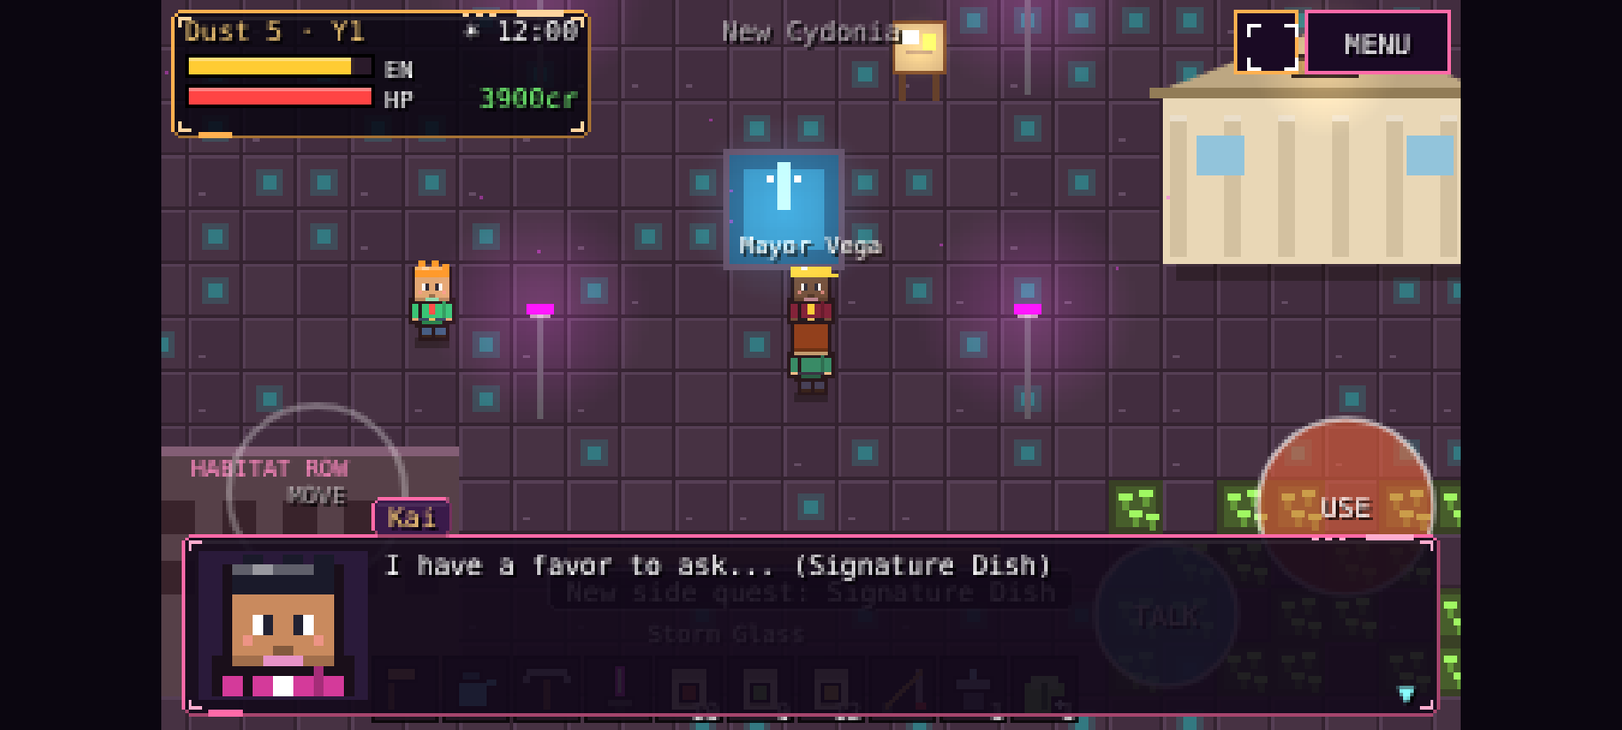
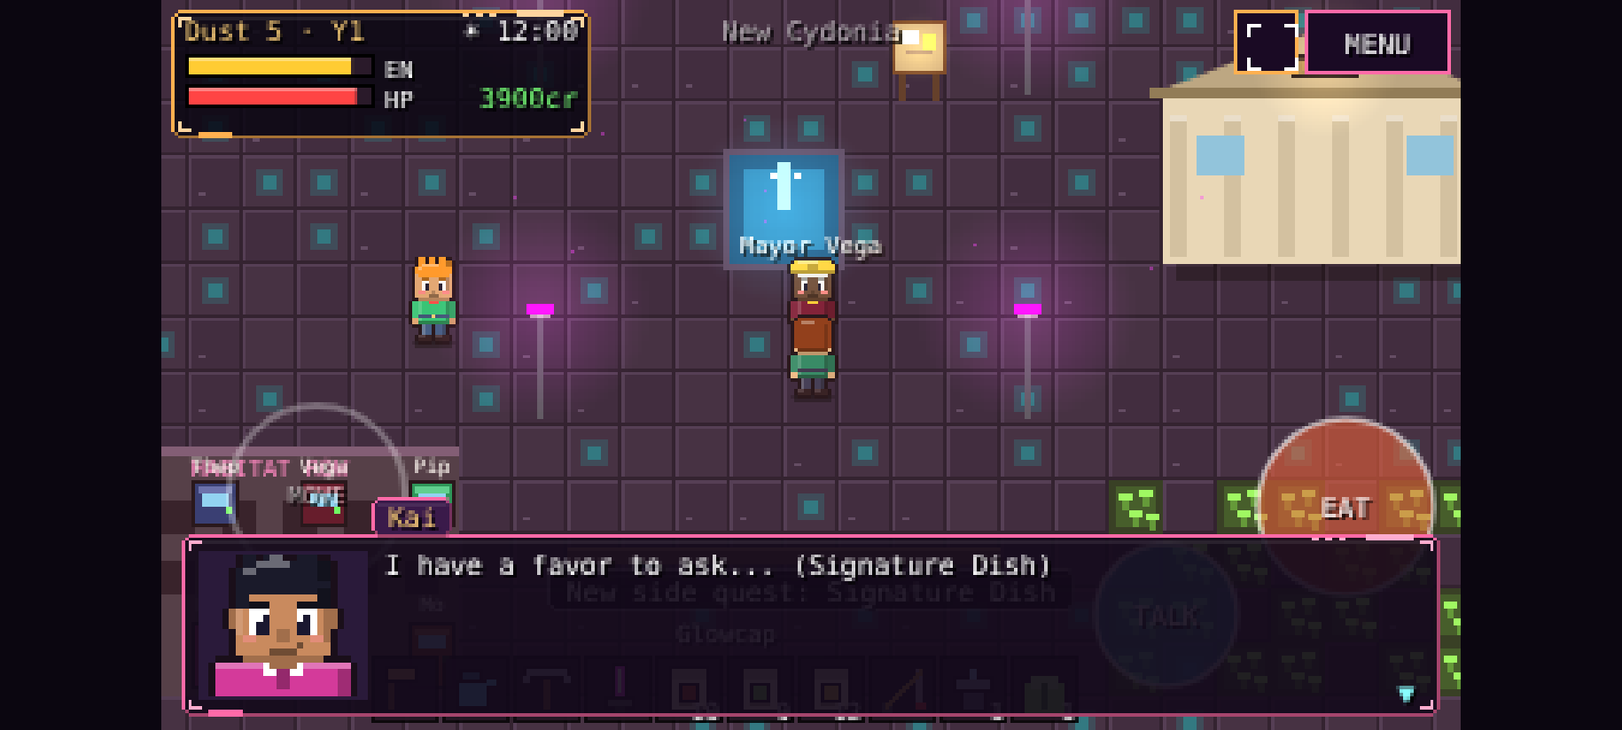
Round 14: resident homes (8 interiors, doors on Habitat Row, schedules, locks, home dialogue/heart events/readables), character + portrait visual pass, v15

diff --git a/js/v12.js b/js/v12.js
@@ -1,0 +1,184 @@
+// Farm Mars v12 (round 14): resident homes + character visual pass
+// ---------- HOMES ----------
+// door tiles on Habitat Row (A block x3-9, y16-19). bottom doors face the plaza (y20), top doors face y15.
+const HOMES={
+ ava:{door:[3,19],out:[3,20],n:"Ava's Workshop Hab",pal:['#3a4a5a','#33414f','#ffd23a','#1e2a36'],bed:[9,1,'#1fb5b5'],sit:[3,3],
+  f:[['bench',1,1,3,1,'#6a6a7a'],['toolwall',1,0,3,0],['blueprint',6,0,2,0],['crate',10,5,1,1,'#a87a3a'],['crate',10,6,1,1,'#8a6a2a'],['rug',4,3,4,3,'#2a6a7a'],['lamp',8,1,1,1,'#ffd23a'],['plant',1,6,1,1,'#3a8']],
+  read:['blueprint','A blueprint for a "Self-Sealing Dome Panel v9". The margins are full of crossed-out sums and one note: "ask the farmer for more iron?"'],
+  home:["Welcome to my workshop! Mind the solder, it's still warm.","I fix the whole colony's gear, and then I come home and fix more gear. It's relaxing, I swear.","See that blueprint? If it works, nobody will ever have to patch a dome by hand again."],
+  ev:["Ava pulls out a small box. Inside is a tiny brass farmer figurine.","AVA: \"I make one for everyone I care about. This one is you. Don't laugh!\""]},
+ kai:{door:[5,19],out:[5,20],n:"Kai's Loft",pal:['#4a2a2a','#3e2222','#ff7ad8','#26141a'],bed:[1,1,'#d43a9a'],sit:[6,3],
+  f:[['counter',7,1,4,1,'#c8c8d0'],['stove',8,1,1,1],['spices',7,0,4,0],['table',5,4,2,1,'#7a4a2a'],['neon',2,0,2,0,'#ff2ad8','EAT'],['plant',10,6,1,1,'#3a8'],['rug',4,3,4,3,'#6a2a4a']],
+  read:['spices','A rack of hand-labelled jars: "Crater Salt", "Glowcap Dust", "DO NOT TOUCH - Ghost Pepper (Mo-proof)".'],
+  home:["Hungry? There's always something on the stove here.","Home is where I test recipes that are too weird for the cafe.","Shh, don't tell anyone that my secret sauce is mostly Glowcap and nostalgia."],
+  ev:["Kai slides a bowl across the counter. It smells like the farm after rain.","KAI: \"I named this one after you. It's not on the menu. It's just for us.\""]},
+ ruiz:{door:[7,19],out:[7,20],n:"Dr. Ruiz's Quarters",pal:['#dde6ea','#c8d4da','#3a6','#4a6a7a'],bed:[10,1,'#eeeeee'],sit:[4,4],
+  f:[['books',1,1,4,1,'#5a3a2a'],['diploma',6,0,1,0],['desk',3,5,3,1,'#6a4a3a'],['plant',10,6,1,1,'#3a8'],['plant',1,6,1,1,'#5c6'],['rug',6,3,3,3,'#5a8a9a']],
+  read:['diploma','"Doctor of Medicine, Tharsis Medical Academy." A sticky note underneath says: "Remember why you came to Mars."'],
+  home:["You found my quarters. I usually spend all my time at the clinic, so this is a nice change.","I keep the plants for the oxygen. And because they never complain about their check-ups.","Sit down if you like. Doctor's orders: rest more."],
+  ev:["Ruiz shows you an old photo of a crowded Earth hospital ward.","RUIZ: \"I left all that to build something better here. You remind me that it was worth it.\""]},
+ mo:{door:[9,19],out:[9,20],n:"Old Mo's Den",pal:['#4a3a2a','#3e3022','#ffaa3a','#2a2018'],bed:[1,1,'#a65a2a'],sit:[6,4],
+  f:[['minerals',6,1,4,1,'#3a2a1a'],['pickwall',2,0,1,0],['armchair',7,4,1,1,'#7a2a2a'],['stove',10,5,1,1],['rug',5,3,4,3,'#6a3a1a'],['lamp',10,1,1,1,'#ffaa3a']],
+  read:['minerals','Old Mo\'s rock collection. Each one is labelled with a floor number and a date. The oldest label is faded and simply says "Day One".'],
+  home:["Come in, come in. Wipe the dust off your boots, or don't. Everything's dusty anyway.","Forty years in those tunnels. Every rock on that shelf has a story.","Sit by the heater. These old bones like the warmth."],
+  ev:["Mo lifts a battered pickaxe off the wall and hands it to you to hold.","MO: \"My first pick. When I'm gone, I want you to have it. Now don't get all misty on me.\""]},
+ zara:{door:[3,16],out:[3,15],n:"Zara's Neon Studio",pal:['#2a1a3a','#241632','#3af0ff','#140a20'],bed:[9,1,'#ff7a1a'],sit:[4,4],
+  f:[['synth',1,1,3,1,'#222'],['neon',5,0,3,0,'#3af0ff','ZARA'],['mirror',9,0,1,0],['speaker',1,5,1,2],['speaker',10,5,1,2],['rug',4,3,4,3,'#6a1a7a']],
+  read:['synth','A synth covered in stickers. Track list on the screen: "Dust Storm Disco", "Phobos at 2am", "Farm Song (for you?)".'],
+  home:["Welcome to the studio! Don't touch the faders. Okay, touch one.","This is where I make the playlists for the Airlock.","The neon's not too much, right? ...Okay, it's a little too much. I love it."],
+  ev:["Zara hits play. A soft synth melody fills the room, and it sounds a lot like the crickets on your farm.","ZARA: \"I wrote it after visiting your farm. It's called 'Home'.\""]},
+ theo:{door:[5,16],out:[5,15],n:"Theo's Observatory Flat",pal:['#22284a','#1c2240','#bff','#10142a'],bed:[1,1,'#3a4aa0'],sit:[6,4],
+  f:[['telescope',9,1,1,1],['starmap',4,0,3,0],['books',1,5,3,1,'#3a2a4a'],['desk',6,1,2,1,'#5a4a6a'],['rug',4,3,4,3,'#2a3a7a'],['fossil',10,5,1,1]],
+  read:['starmap','A star chart with Earth circled in red. Next to it someone has written "too far" and then, later, "but look how bright it is".'],
+  home:["Oh! Visitors are rare. Sorry about all the notes everywhere.","The telescope's pointed at Earth. Some nights I just look.","Did you know Phobos is getting closer to Mars every year? About two metres every century."],
+  ev:["Theo lets you look through the telescope. A tiny blue dot shimmers in the eyepiece.","THEO: \"Everyone I ever knew is on that dot. And yet, I think I'd rather be here.\""]},
+ vega:{door:[7,16],out:[7,15],n:"Mayor Vega's Residence",pal:['#3a1a2a','#321624','#ffd23a','#200c18'],bed:[10,1,'#7a1a3a'],sit:[4,4],
+  f:[['desk',3,1,3,1,'#5a2a1a'],['flag',1,0,1,0],['globe',8,5,1,1],['portrait',6,0,2,0],['plant',1,6,1,1,'#3a8'],['rug',3,3,5,3,'#7a1a3a'],['books',8,1,2,1,'#4a2a1a']],
+  read:['portrait','A portrait of the first 40 colonists. A much younger Vega stands at the front, already wearing that cap.'],
+  home:["Ah, welcome. Even a mayor needs a place to put her feet up.","Paperwork follows me home. Every single night.","That portrait is the first landing crew. Half of them still live in New Cydonia."],
+  ev:["Vega takes a pin from her desk: the colony seal, in gold.","VEGA: \"Honorary Founder. It's not official. Yet. But you've earned it.\""]},
+ pip:{door:[9,16],out:[9,15],n:"Pip's Family Hab",pal:['#3a5a3a','#335233','#ff4a4a','#1e321e'],bed:[1,1,'#2ac87a'],sit:[6,4],
+  f:[['toys',9,5,2,1],['drawings',4,0,3,0],['table',6,1,2,1,'#c87a3a'],['rover',3,5,1,1],['rug',4,3,4,3,'#2a7aaa'],['plant',10,1,1,1,'#3a8']],
+  read:['drawings','Crayon drawings stuck to the wall: a robot, a cow with antennae, and a stick figure in a big hat labelled "THE FARMER (my friend)".'],
+  home:["This is my room! Don't step on my rover.","Mom says I have to tidy up before bedtime. Mom says that a lot.","Want to see my drawings? That one's you!"],
+  ev:["Pip hands you a crayon drawing of the two of you on the farm, under a giant smiling Phobos.","PIP: \"You can keep it! I'll draw another one. I'll draw a hundred!\""]},
+};
+window.HOMEN={};
+const HOMEZ=id=>'h_'+id,homeOf=z=>z&&z.startsWith('h_')?z.slice(2):null;
+for(const id in HOMES){const h=HOMES[id],z=HOMEZ(id),rows=[];for(let y=0;y<8;y++){let r='';for(let x=0;x<12;x++)r+=(y==0||x==0||x==11)?'w':(y==7?(x==5?'D':'w'):'o');rows.push(r)}
+ const m=fromStr(rows);m[7]=m[7].map((c,x)=>x==5?'D':'w');
+ const solid=(x,y,w,hh)=>{for(let j=0;j<hh;j++)for(let i=0;i<w;i++)if(m[y+j]&&m[y+j][x+i]=='o')m[y+j][x+i]='x'};
+ solid(h.bed[0],h.bed[1],2,2);for(const f of h.f)if(f[0]!='rug'&&f[4]>0)solid(f[1],f[2],f[3],f[4]);
+ MAPS[z]=m;DZ[z]=h.pal;window.HOMEN[z]=h.n;
+ MAPS.city[h.door[1]][h.door[0]]='D';DOORS['city:'+h.door[0]+','+h.door[1]]=[z,5,6];EXITS[z]=['city',h.out[0],h.out[1]]}
+// residents sleep/relax at home instead of vanishing
+for(const n of NPCS){const h=HOMES[n.id];if(!h)continue;n.sched=n.sched.map(s=>s[1]=='home'?[s[0],HOMEZ(n.id),h.sit[0],h.sit[1]]:s)}
+const homeOpen=()=>G.time>=420&&G.time<1320;// 7:00-22:00
+function homeLocked(id){if(G.spouse==id)return false;return !homeOpen()&&(G.hearts[id]||0)<6}
+{const _tr=triggers;triggers=function(){if(G&&G.zone=='city'){const tx=Math.floor(G.px/T),ty=Math.floor((G.py-2)/T);for(const id in HOMES){const h=HOMES[id];if(h.door[0]==tx&&h.door[1]==ty&&homeLocked(id)){
+   const n=NPCS.find(q=>q.id==id);G.px=h.out[0]*T+8;G.py=h.out[1]*T+8;if(!(TOASTLOCK>tick)){toast("Locked. "+n.n+" is asleep. (Open 7:00-22:00, or at 6+ hearts)");sfx('bad');TOASTLOCK=tick+90}return}}}
+ return _tr.apply(this,arguments)}}
+let TOASTLOCK=0;
+// home dialogue, home heart events
+{const _t=talk;talk=function(n){_t(n);const id=homeOf(G.zone);if(id!=n.id||!modal||!HOMES[id]||(modal.name||'').includes('Event'))return;const h=HOMES[id];G.events=G.events||{};
+ if((G.hearts[id]||0)>=5&&!G.events['homeEv_'+id]&&G.spouse!=id){G.events['homeEv_'+id]=G.day;addHearts(n,1);modal={name:n.n+' - Heart Event',pages:h.ev.slice(),pi:0,ch:0,opts:null,sel:0,look:n.look,mood:'love'};sfx('heart');return}
+ const k='homeL_'+id;if(G.events[k]!=G.day){G.events[k]=G.day;modal.pages.unshift(h.home[G.day%h.home.length])}}}
+function homeRead(){const id=homeOf(G.zone);if(!id)return false;const h=HOMES[id],[fx,fy]=facingTile();
+ const hit=(f)=>fx>=f[1]&&fx<f[1]+f[3]&&fy>=f[2]&&fy<=f[2]+Math.max(0,f[4]-1);const f=h.f.find(f=>f[0]==h.read[0]&&(hit(f)||f[4]==0&&fx>=f[1]&&fx<f[1]+f[3]&&fy<=1));
+ if(f){say(h.n,h.read[1]);sfx('menu');G.events=G.events||{};G.events['read_'+id]=1;return true}
+ if(fx>=h.bed[0]&&fx<h.bed[0]+2&&fy>=h.bed[1]&&fy<h.bed[1]+2){say(h.n,"It's a neatly made bed. Better not.");return true}return false}
+{const _i=interact;interact=function(){if(G&&!modal&&!nearNPC()&&homeRead())return;return _i()}}
+{const _a=act;act=function(){if(G&&!modal&&!FISHING&&!nearNPC()&&homeOf(G.zone)&&homeRead())return;return _a()}}
+// ---------- furniture art ----------
+function furn(f,X,Y){const[k,,,w,h,c,lab]=f,W2=w*T,H2=Math.max(1,h)*T;
+ switch(k){
+ case'rug':R(X,Y,W2,H2,c);R(X+2,Y+2,W2-4,H2-4,shade(c,.15));R(X+4,Y+4,W2-8,H2-8,c);for(let i=6;i<W2-6;i+=6)R(X+i,Y+H2/2,2,2,shade(c,.4));break;
+ case'bench':case'desk':case'table':case'counter':R(X,Y+2,W2,H2-6,'#1a0f1a');R(X+1,Y+3,W2-2,4,shade(c,.25));R(X+1,Y+7,W2-2,H2-12,c);R(X+2,Y+H2-5,2,4,shade(c,-.4));R(X+W2-4,Y+H2-5,2,4,shade(c,-.4));
+  if(k=='bench'){R(X+6,Y-1,6,4,'#9aa');R(X+18,Y,4,3,'#f80');R(X+30,Y-2,8,5,'#3a3')}if(k=='desk'){R(X+W2/2-6,Y-6,12,9,'#1a1a24');R(X+W2/2-5,Y-5,10,6,tick%90<45?'#6cf':'#5be');R(X+4,Y,6,2,'#fff')}
+  if(k=='counter'){R(X+4,Y,6,3,'#ddd');R(X+W2-12,Y-2,4,5,'#a33')}if(k=='table'){R(X+6,Y+1,6,2,'#fff');R(X+W2-12,Y,4,3,'#ffd27a')}break;
+ case'stove':R(X,Y+1,T,T-1,'#1a0f1a');R(X+1,Y+2,14,13,'#556');R(X+2,Y+3,12,3,'#889');R(X+3,Y+8,10,5,'#222');R(X+4,Y+9,8,3,tick%20<10?'#f62':'#fa3');light(X+8,Y+10,18,'#f84');break;
+ case'crate':R(X+1,Y+1,14,14,'#1a0f1a');R(X+2,Y+2,12,12,c);R(X+2,Y+2,12,1,shade(c,.3));R(X+2,Y+7,12,1,shade(c,-.3));R(X+7,Y+2,1,12,shade(c,-.3));break;
+ case'lamp':R(X+7,Y+4,2,11,'#333');R(X+4,Y+14,8,2,'#222');R(X+3,Y,10,5,c);R(X+4,Y+1,8,1,'#fff8');light(X+8,Y+3,34,c);break;
+ case'plant':R(X+4,Y+10,8,6,'#8a4a2a');R(X+4,Y+10,8,1,'#b86a3a');R(X+3,Y+2,4,8,c);R(X+8,Y,5,10,shade(c,.2));R(X+6,Y+4,4,6,shade(c,-.2));R(X+9,Y+1,2,2,'#cfc');break;
+ case'books':case'minerals':R(X,Y-6,W2,H2+6,'#1a0f1a');R(X+1,Y-5,W2-2,H2+4,c);for(let r=0;r<3;r++){R(X+1,Y-5+r*7+6,W2-2,1,shade(c,-.4));for(let i=2;i<W2-3;i+=3){const col=k=='books'?['#c33','#36c','#3a6','#db3','#a5c'][(i+r)%5]:['#e0603a','#6cf','#c8f','#ffd27a','#9f6','#ccc'][(i+r*2)%6];R(X+i,Y-5+r*7+(k=='books'?1:3),2,k=='books'?5:3,col)}}break;
+ case'armchair':R(X,Y+2,T,14,'#1a0f1a');R(X+1,Y+3,14,12,c);R(X+3,Y+7,10,5,shade(c,.2));R(X+1,Y+3,14,2,shade(c,.3));break;
+ case'telescope':R(X+6,Y+8,1,8,'#888');R(X+10,Y+8,1,8,'#888');R(X+8,Y+6,1,10,'#aaa');R(X+2,Y,12,5,'#1a0f1a');R(X+3,Y+1,10,3,'#c8c0a0');R(X+3,Y+1,10,1,'#fff');R(X+12,Y,3,5,'#556');break;
+ case'globe':R(X+7,Y+11,2,4,'#a87');R(X+4,Y+14,8,2,'#5a3a2a');R(X+3,Y+1,10,10,'#1a0f1a');R(X+4,Y+2,8,8,'#c8502a');R(X+5,Y+3,3,2,'#e88a5a');R(X+8,Y+6,3,2,'#8a2a1a');break;
+ case'synth':R(X,Y+3,W2,10,'#1a0f1a');R(X+1,Y+4,W2-2,8,'#333');for(let i=3;i<W2-3;i+=3)R(X+i,Y+8,2,4,i%9?'#fff':'#111');R(X+3,Y+5,10,2,tick%30<15?'#3af0ff':'#ff2ad8');light(X+W2/2,Y+6,26,'#3af0ff');break;
+ case'speaker':R(X+1,Y,14,H2,'#1a0f1a');R(X+2,Y+1,12,H2-2,'#2a2a34');const p=tick%16<8?1:0;R(X+4,Y+4,8,8,'#111');R(X+5+p,Y+5+p,6-2*p,6-2*p,'#556');R(X+5,Y+18,6,6,'#111');R(X+6,Y+19,4,4,'#445');break;
+ case'toys':R(X+2,Y+4,W2-4,12,'#1a0f1a');R(X+3,Y+5,W2-6,10,'#e84');R(X+3,Y+5,W2-6,2,'#fa6');R(X+6,Y,5,5,'#3cf');R(X+14,Y+1,6,4,'#fd3');R(X+22,Y,3,6,'#c3c');break;
+ case'rover':R(X+2,Y+6,12,6,'#1a0f1a');R(X+3,Y+7,10,4,'#ccc');R(X+5,Y+4,4,3,'#6cf');R(X+3,Y+11,3,3,'#333');R(X+10,Y+11,3,3,'#333');break;
+ case'fossil':R(X+2,Y+4,12,10,'#1a0f1a');R(X+3,Y+5,10,8,'#a89070');R(X+5,Y+7,6,1,'#e8dcc0');R(X+5,Y+9,6,1,'#e8dcc0');R(X+7,Y+6,1,5,'#e8dcc0');break;
+ // wall-mounted (h==0): drawn on the wall row
+ case'toolwall':R(X+2,Y+3,W2-4,10,'#5a4a3a');R(X+6,Y+4,2,8,'#ccc');R(X+14,Y+4,6,3,'#f80');R(X+16,Y+7,2,5,'#aaa');R(X+28,Y+5,8,2,'#ccc');R(X+31,Y+5,2,7,'#a87');break;
+ case'blueprint':case'starmap':case'drawings':case'portrait':R(X+2,Y+2,W2-4,12,'#1a0f1a');R(X+3,Y+3,W2-6,10,k=='blueprint'?'#2a5ab0':k=='starmap'?'#0a1030':k=='portrait'?'#6a4a2a':'#f4ead8');
+  if(k=='blueprint'){for(let i=5;i<W2-5;i+=5)R(X+i,Y+5,1,6,'#9cf');R(X+5,Y+8,W2-10,1,'#9cf')}if(k=='starmap'){for(let i=0;i<9;i++)R(X+4+(i*7)%(W2-8),Y+4+(i*5)%8,1,1,'#fff');R(X+W2-12,Y+7,2,2,'#f44')}
+  if(k=='drawings'){R(X+5,Y+5,6,6,'#f66');R(X+16,Y+4,8,7,'#6cf');R(X+30,Y+5,6,6,'#fd3');R(X+32,Y+3,2,2,'#333')}if(k=='portrait'){R(X+4,Y+4,W2-8,8,'#c8b090');for(let i=6;i<W2-6;i+=4)R(X+i,Y+6,2,5,'#3a2a2a')}break;
+ case'diploma':R(X+2,Y+3,12,10,'#a87a3a');R(X+3,Y+4,10,8,'#f4ead8');R(X+5,Y+6,6,1,'#555');R(X+5,Y+8,6,1,'#555');R(X+9,Y+10,3,2,'#c33');break;
+ case'pickwall':R(X+3,Y+4,10,3,'#999');R(X+2,Y+5,2,3,'#888');R(X+12,Y+5,2,3,'#888');R(X+7,Y+6,2,9,'#7a4a2a');break;
+ case'mirror':R(X+3,Y+1,10,14,'#ffd27a');R(X+4,Y+2,8,12,'#9cd8f0');R(X+5,Y+3,2,6,'#fff8');break;
+ case'flag':R(X+3,Y+1,1,14,'#ccc');R(X+4,Y+2,10,7,'#c8302a');R(X+7,Y+4,4,3,'#ffd23a');break;
+ case'spices':R(X+2,Y+8,W2-4,2,'#7a4a2a');for(let i=4;i<W2-4;i+=5)R(X+i,Y+3,4,5,['#c33','#db3','#3a6','#a5c','#e84'][i%5]);break;
+ case'neon':{const on=tick%120<110;R(X+2,Y+3,W2-4,10,'#0a0610');txt(lab,X+W2/2,Y+11,on?c:shade(c,-.6),7,'center',0);if(on)light(X+W2/2,Y+8,40,c);break}
+ }}
+function drawBed(X,Y,c){R(X,Y,32,30,'#1a0f1a');R(X+1,Y+1,30,6,'#7a5a3a');R(X+1,Y+7,30,22,'#e8e8f8');R(X+3,Y+8,11,7,'#fff');R(X+1,Y+15,30,14,c);R(X+1,Y+15,30,2,shade(c,.3));R(X+1,Y+27,30,2,shade(c,-.3))}
+{const _de=typeof drawExtra=='function'?drawExtra:null;drawExtra=function(D,ox,oy,z){if(_de)_de(D,ox,oy,z);
+ if(z=='city'){for(const id in HOMES){const h=HOMES[id],X=h.door[0]*T-ox,Y=h.door[1]*T-oy;if(X<-20||X>W+20||Y<-30||Y>H+30)continue;const top=h.door[1]==16,lk=homeLocked(id),n=NPCS.find(q=>q.id==id);
+   D.push([(top?16:20)*T-oy+(top?-T*4:1),()=>{R(X+1,Y-(top?0:6),14,top?14:20,'#1a0f1a');R(X+2,Y-(top?-1:5),12,top?12:18,shade(n.look.top,-.25));R(X+3,Y-(top?-2:4),10,2,shade(n.look.top,.2));R(X+11,Y+(top?8:4),2,2,lk?'#f44':'#6f6');
+    R(X+4,Y-(top?-4:2),8,4,G.time>=1080||G.time<420?'#ffd890':'#8ad8ff');txt(n.n.split(' ').pop(),X+8,Y+(top?-2:-9),'#fff',6,'center',0)}])}}
+ const id=homeOf(z);if(!id)return;const h=HOMES[id];
+ for(const f of h.f){const X=f[1]*T-ox,Y=f[2]*T-oy;if(f[0]=='rug')D.push([-9999,()=>furn(f,X,Y)]);else if(f[4]==0)D.push([-999,()=>furn(f,X,Y)]);else D.push([(f[2]+f[4])*T-oy,()=>furn(f,X,Y)])}
+ const bx=h.bed[0]*T-ox,by=h.bed[1]*T-oy;D.push([by+2*T-6,()=>drawBed(bx,by,h.bed[2])])}}
+// ---------- CHARACTER VISUAL PASS ----------
+const drawCharV1=drawChar,drawPortraitV1=drawPortrait;
+const CC=new Map();const OL='#1a0f1a';
+function outline(c){const g=c.getContext('2d'),w=c.width,h=c.height,d=g.getImageData(0,0,w,h),a=d.data,o=new Uint8ClampedArray(a);
+ for(let y=0;y<h;y++)for(let x=0;x<w;x++){const i=(y*w+x)*4;if(a[i+3])continue;if((x>0&&a[i-1])||(x<w-1&&a[i+7])||(y>0&&a[i-w*4+3])||(y<h-1&&a[i+w*4+3])){o[i]=26;o[i+1]=15;o[i+2]=26;o[i+3]=255}}
+ d.data.set(o);g.putImageData(d,0,0)}
+function rr(g,x,y,w,h,c){px(g,x+1,y,w-2,h,c);px(g,x,y+1,w,h-2,c)}// rounded rect
+function charSprite(look,dir,frame,suit,swing){const key=look.skin+look.hair+look.style+look.top+look.pants+look.acc+dir+frame+(suit?1:0)+(swing?1:0)+(look.small?'s':'');let c=CC.get(key);if(c)return c;
+ c=document.createElement('canvas');c.width=18;c.height=27;const g=c.getContext('2d'),O=1,sk=look.skin,hr=look.hair,tp=look.top,pn=look.pants,ac=look.acc||shade(tp,.4);
+ const ph=[0,1,0,-1][frame&3],bob=(frame&1)?1:0,side=dir==1||dir==3,fl=dir==3;const X=O,Y=O+1;
+ const P=(x,y,w,h,col)=>px(g,fl?X+16-x-w:X+x,Y+y,w,h,col);
+ // legs (4-frame stride, knee lift on passing frames)
+ const sh='#2a1a24',sh2='#4a3a44';
+ if(side){const a=ph*2;P(6+a,17,3,5-(ph<0?1:0),pn);P(7-a,17,3,5-(ph>0?1:0),shade(pn,-.25));P(6+a,21-(ph<0?1:0),4,2,sh);P(7-a,21-(ph>0?1:0),4,2,shade(sh,-.2));P(6+a,21-(ph<0?1:0),1,1,sh2)}
+ else{const l=ph>0?1:0,r=ph<0?1:0;P(5,17,3,5-l,pn);P(9,17,3,5-r,pn);P(5,17,1,4,shade(pn,.2));P(11,17,1,4,shade(pn,-.25));P(4,21-l,4,2,sh);P(9,21-r,4,2,sh);P(4,21-l,2,1,sh2);P(9,21-r,2,1,sh2)}
+ // torso
+ const by=10+bob;rr(g,fl?X+16-4-9:X+4,Y+by,9,8,tp);P(4,by,9,1,shade(tp,.3));P(4,by+1,1,6,shade(tp,.18));P(12,by+1,1,6,shade(tp,-.28));P(4,by+7,9,1,shade(tp,-.35));
+ P(4,by+5,9,1,shade(pn,-.1));if(dir==2){P(7,by,3,2,ac);P(8,by+5,1,1,'#ffd27a')}else if(side)P(9,by+1,2,3,shade(tp,.15));
+ if(suit){P(4,by+3,9,1,'#fa2');if(dir==0)P(5,by+1,7,5,'#778'),P(6,by+2,5,1,'#99a');else if(side)P(3,by+1,2,6,'#778')}
+ // arms with hands, swing opposite legs
+ const sw=swing?0:ph;if(side){P(7-sw,by+1,3,6,shade(tp,-.1));P(7-sw,by+6,3,2,sk);P(7-sw,by+1,1,5,shade(tp,.2))}
+ else{P(2,by+1-sw,2,6,shade(tp,.05));P(13,by+1+sw,2,6,shade(tp,-.2));P(2,by+6-sw,2,2,sk);P(13,by+6+sw,2,2,shade(sk,-.1))}
+ // head: rounded, shaded
+ const hy=1+bob,skd=shade(sk,-.22),skl=shade(sk,.15);rr(g,fl?X+16-3-11:X+3,Y+hy,11,10,sk);P(4,hy,8,1,skl);P(12,hy+2,1,6,skd);P(4,hy+9,9,1,skd);
+ if(dir==0){rr(g,fl?X+16-3-11:X+3,Y+hy-1,11,10,hr);P(5,hy,4,1,shade(hr,.35));P(4,hy+8,9,1,shade(hr,-.3));P(12,hy+1,1,7,shade(hr,-.2))}
+ else{const eb=shade(hr,-.35);
+  if(dir==2){P(5,hy+4,2,3,'#fff');P(10,hy+4,2,3,'#fff');P(6,hy+5,1,2,'#1a1830');P(10,hy+5,1,2,'#1a1830');P(5,hy+4,1,1,'#fff');P(5,hy+3,2,1,eb);P(10,hy+3,2,1,eb);
+   P(4,hy+7,2,1,'#f88a8a');P(11,hy+7,2,1,'#f88a8a');P(7,hy+8,3,1,shade(sk,-.4));P(8,hy+7,1,1,skd)}
+  else{P(10,hy+4,2,3,'#fff');P(11,hy+5,1,2,'#1a1830');P(10,hy+3,2,1,eb);P(13,hy+5,1,2,skd);P(11,hy+8,2,1,shade(sk,-.4));P(9,hy+7,2,1,'#f88a8a');P(5,hy+4,2,3,skd)}
+  const st=look.style,hl=shade(hr,.35),hd=shade(hr,-.3);
+  if(st!='bald'){rr(g,fl?X+16-3-11:X+3,Y+hy-1,11,4,hr);P(5,hy-1,5,1,hl);P(4,hy,1,1,hl);
+   if(side){P(3,hy,4,6,hr);P(3,hy+5,3,1,hd);P(4,hy+1,1,3,hl)}
+   if(st=='bob'){P(2,hy+1,2,8,hr);P(13,hy+1,2,8,hd);P(2,hy+8,2,1,hd);if(dir==2)P(4,hy+2,4,1,hr)}
+   else if(st=='spiky'){P(4,hy-3,2,2,hr);P(7,hy-4,2,3,hr);P(10,hy-3,2,2,hr);P(12,hy-2,2,2,hd);P(7,hy-4,1,1,hl);if(dir==2)P(4,hy+2,2,1,hr),P(10,hy+2,2,1,hr)}
+   else if(st=='long'){P(2,hy+1,2,12,hr);P(13,hy+1,2,12,hd);P(2,hy+12,2,1,hd);P(2,hy+3,1,5,hl)}
+   else if(st=='cap'){rr(g,fl?X+16-2-13:X+2,Y+hy-2,13,4,ac);P(4,hy-2,6,1,shade(ac,.35));P(2,hy+1,13,1,shade(ac,-.3));if(dir==2)P(7,hy-1,3,2,shade(ac,-.25));else if(side)P(12,hy+1,4,2,ac)}
+   else if(st=='beard'){P(3,hy-1,11,2,hr)}}else{P(4,hy,8,1,shade(sk,.35));P(6,hy+1,3,1,shade(sk,.25))}
+  if(st=='beard'){if(dir==2){P(4,hy+6,9,4,hr);P(6,hy+10,5,1,hr);P(7,hy+7,3,1,shade(sk,-.4));P(4,hy+6,1,3,hl)}else P(8,hy+6,6,4,hr)}
+  if(st=='bald'&&dir!=0){P(3,hy+2,1,3,'#9a9a9a');P(13,hy+2,1,3,'#9a9a9a')}}
+ outline(c);
+ if(suit){g.fillStyle='#bff9';const cxp=X+8.5,cyp=Y+hy+4.5;for(let a=0;a<64;a++){const t=a/64*6.283,xx=Math.round(cxp+Math.cos(t)*7.5),yy=Math.round(cyp+Math.sin(t)*7.2);g.fillRect(xx,yy,1,1)}g.fillStyle='#fffc';g.fillRect(X+5,Y+hy-2,3,1)}
+ if(CC.size>600)CC.clear();CC.set(key,c);return c}
+drawChar=function(g,X,Y,look,dir,frame,o={}){if(!look||!look.skin)return drawCharV1(g,X,Y,look,dir,frame,o);const f=frame&3;
+ px(g,X+3,Y+22,11,3,'#0005');px(g,X+2,Y+23,13,1,'#0003');g.drawImage(charSprite(look,dir,f,o.suit,o.swing),Math.round(X)-1,Math.round(Y)-2);
+ if(o.carry){const c=o.carry,b=(f&1)?1:0;ob(g,X+5,Y-6+b,6,6,c);px(g,X+6,Y-5+b,2,2,'#fff8')}};
+// ---------- portraits: dedicated 24x21 bust, drawn at 2x for dialogue ----------
+const PC2={};
+function bust(look,mood,blink){const key=JSON.stringify(look)+mood+blink;if(PC2[key])return PC2[key];const c=document.createElement('canvas');c.width=24;c.height=21;const g=c.getContext('2d'),P=(x,y,w,h,col)=>px(g,x,y,w,h,col);
+ const sk=look.skin,hr=look.hair,tp=look.top,ac=look.acc||shade(tp,.4),skd=shade(sk,-.2),skl=shade(sk,.14),hl=shade(hr,.35),hd=shade(hr,-.3),st=look.style;
+ // shoulders
+ rr(g,2,16,20,6,tp);P(2,16,20,1,shade(tp,.3));P(9,16,6,2,ac);P(11,17,2,3,shade(tp,-.3));P(20,17,2,4,shade(tp,-.25));
+ P(10,14,4,3,skd);// neck
+ if(st=='long'){P(4,5,3,13,hr);P(17,5,3,13,hd)}
+ // head
+ rr(g,5,3,14,13,sk);P(6,3,10,1,skl);P(18,5,1,8,skd);P(6,15,12,1,skd);P(5,6,1,6,skl);P(4,8,1,3,skd);P(19,8,1,3,skd);
+ // eyes
+ const ey=9;if(blink){P(7,ey+1,3,1,'#1a1830');P(14,ey+1,3,1,'#1a1830')}else if(mood=='love'){P(7,ey,1,1,'#1a1830');P(8,ey-1,1,1,'#1a1830');P(9,ey,1,1,'#1a1830');P(14,ey,1,1,'#1a1830');P(15,ey-1,1,1,'#1a1830');P(16,ey,1,1,'#1a1830')}
+ else{P(7,ey-1,3,4,'#fff');P(14,ey-1,3,4,'#fff');P(8,ey,2,3,'#1a1830');P(14,ey,2,3,'#1a1830');P(8,ey,1,1,'#fff');P(14,ey,1,1,'#fff');if(mood=='sad')P(17,ey+3,1,2,'#8cf')}
+ const bw=shade(hr=='#dddddd'||st=='bald'?'#888888':hr,-.35);if(mood=='angry'){P(7,ey-3,3,1,bw);P(9,ey-2,1,1,bw);P(14,ey-3,3,1,bw);P(14,ey-2,1,1,bw)}else{P(7,ey-2,3,1,bw);P(14,ey-2,3,1,bw)}
+ P(11,ey+2,2,2,skd);P(6,ey+3,2,1,'#f8909088');P(16,ey+3,2,1,'#f8909088');
+ const mk=shade(sk,-.45);if(mood=='happy'||mood=='love'){P(9,ey+5,6,1,mk);P(10,ey+6,4,1,'#c04050');P(9,ey+4,1,1,mk);P(14,ey+4,1,1,mk)}else if(mood=='sad'||mood=='angry'){P(10,ey+5,4,1,mk);P(9,ey+6,1,1,mk);P(14,ey+6,1,1,mk)}else{P(10,ey+5,4,1,mk);P(14,ey+4,1,1,mk)}
+ // hair
+ if(st!='bald'){rr(g,5,1,14,5,hr);P(7,1,6,1,hl);P(6,2,2,1,hl);P(5,5,2,3,hr);P(17,5,2,3,hd);
+  if(st=='bob'){P(3,4,3,11,hr);P(18,4,3,11,hd);P(3,14,3,1,hd);P(7,5,5,2,hr);P(3,6,1,4,hl)}
+  else if(st=='spiky'){P(6,-0,2,2,hr);P(9,0,3,1,hr);P(10,-0,2,1,hl);P(14,0,3,2,hr);P(17,1,2,3,hd);P(7,5,3,1,hr);P(13,5,3,1,hr)}
+  else if(st=='long'){P(4,3,2,4,hr);P(18,3,2,4,hd);P(6,5,4,1,hr)}
+  else if(st=='cap'){rr(g,4,0,16,5,ac);P(6,0,8,1,shade(ac,.35));P(3,4,18,2,shade(ac,-.25));P(10,1,4,3,shade(ac,-.15));P(5,6,2,2,hr);P(17,6,2,2,hr)}
+  else if(st=='beard'){P(5,11,14,4,hr);P(7,15,10,2,hr);P(9,17,6,1,hd);P(10,13,4,1,mk);P(6,11,1,3,hl)}}
+ else{P(7,3,8,1,shade(sk,.3));P(4,7,1,4,'#9a9a9a');P(19,7,1,4,'#9a9a9a');if(look.acc){P(6,8,5,1,'#333');P(13,8,5,1,'#333');P(11,8,2,1,'#333')}}
+ outline(c);return PC2[key]=c}
+drawPortrait=function(g,X,Y,look,s=3,mood='',blink=false){if(!look||!look.skin)return drawPortraitV1(g,X,Y,look,s,mood,blink);const k=s>=3?2:1,c=bust(look,mood,blink);g.imageSmoothingEnabled=false;
+ const w=24*k,h=21*k,bw=16*s,bh=14*s;g.drawImage(c,0,0,24,21,Math.round(X+(bw-w)/2),Math.round(Y+(bh-h)),w,h)};
+window.FM12={HOMES,HOMEZ,homeOf,homeLocked,homeOpen,charSprite,bust,drawCharV1,drawPortraitV1,homeRead,CC};

diff --git a/tests/features.js b/tests/features.js
@@ -24,6 +24,27 @@ module.exports=async({t,ev,page,path,SHOTS})=>{
   add('iron',5);talk(n);modal=null;if(G.sq[q.id]!==1)throw new Error('step1');add('crys',2);const m=G.money;talk(n);modal=null;if(G.sq[q.id]!='done')throw new Error('not done');if(G.money!=m+q.r[0])throw new Error('reward');
   FM11.questLog();if(!modal||!modal.pages[0].includes('Done'))throw new Error('log');modal=null;for(const x of FM11.SQ)for(const[s]of x.steps)if(!ITEMS[s])throw new Error('bad item '+s);boardMenu();if(!modal.opts.some(o=>o.t=='Side Quests'))throw new Error('board link');modal=null;
   const q2=FM11.SQ[1];G.hearts[q2.npc]=5;talk(NPCS.find(x=>x.id==q2.npc));modal=null;if(FM11.sqActive()!=q2)throw new Error('tracker');draw();const[rx,ry,rw,rh]=FM11.sqTrackRect();onTap(rx+10,ry+10);if(!modal||!modal.pages[0].includes(q2.t))throw new Error('tracker tap');modal=null;return 'ok'}));
+ await t('homes: 8 doors open, spawns walkable, exits back, reachable sit spots',async()=>ev(()=>{const H=FM12.HOMES,out=[];if(Object.keys(H).length<8)throw new Error('homes '+Object.keys(H).length);
+  for(const id in H){const h=H[id],z=FM12.HOMEZ(id);if(!NPCS.find(n=>n.id==id))throw new Error('no npc '+id);G.time=600;G.hearts[id]=0;
+   if(MAPS.city[h.door[1]][h.door[0]]!='D')throw new Error('door tile '+id);if(isSolid('city',MAPS.city[h.out[1]][h.out[0]]))throw new Error('out solid '+id);
+   enter('city',h.out[0],h.out[1],0);G.px=h.door[0]*T+8;G.py=h.door[1]*T+10;triggers();if(G.zone!=z)throw new Error('enter '+id+' -> '+G.zone);if(!feetFree(G.px,G.py))throw new Error('spawn '+id);
+   const m=MAPS[z],seen={},q=[[5,6]];seen['5,6']=1;while(q.length){const[x,y]=q.shift();for(const[dx,dy]of[[1,0],[-1,0],[0,1],[0,-1]]){const a=x+dx,b=y+dy;if(!m[b]||m[b][a]==null||seen[a+','+b]||isSolid(z,m[b][a]))continue;seen[a+','+b]=1;q.push([a,b])}}
+   if(!seen[h.sit[0]+','+h.sit[1]])throw new Error('sit unreachable '+id);if(!seen['5,7'])throw new Error('door unreachable '+id);
+   for(let i=0;i<3;i++){update();draw()}G.px=5*T+8;G.py=7*T+6;triggers();if(G.zone!='city')throw new Error('exit '+id);if(Math.floor(G.px/T)!=h.out[0]||Math.floor(G.py/T)!=h.out[1])throw new Error('exit pos '+id);out.push(id)}
+  return out.length+' homes ok'}));
+ await t('homes: locked late at night unless 6+ hearts; residents home on schedule',async()=>ev(()=>{const h=FM12.HOMES.kai;G.spouse=null;G.time=23*60;G.hearts.kai=0;enter('city',h.out[0],h.out[1],0);G.px=h.door[0]*T+8;G.py=h.door[1]*T+10;triggers();if(G.zone!='city')throw new Error('not locked');
+  G.hearts.kai=6;G.px=h.door[0]*T+8;G.py=h.door[1]*T+10;triggers();if(G.zone!='h_kai')throw new Error('6 hearts locked');
+  const bad=[];for(const tm of[6*60+30,23*60]){G.time=tm;placeNPCs(true);for(const id in FM12.HOMES)if(npcRT[id].zone!='h_'+id)bad.push(id+'@'+tm+'='+npcRT[id].zone)}
+  G.time=12*60;placeNPCs(true);const away=Object.keys(FM12.HOMES).filter(id=>npcRT[id].zone.startsWith('h_'));if(bad.length)throw new Error(bad.join(' '));enter('city',16,14,0);return 'ok, at noon home: '+(away.join(',')||'none')}));
+ await t('homes: home dialogue, heart event, readable item, gifting at home',async()=>ev(()=>{G.events={theo3:1,theo4:1,theo6:1,theo7:1,theo9:1};const n=NPCS.find(q=>q.id=='theo');G.time=23*60;G.hearts.theo=2;enter('h_theo',5,6,0);placeNPCs(true);G.talked={};talk(n);
+  if(!modal||!FM12.HOMES.theo.home.includes(modal.pages[0]))throw new Error('no home line');modal=null;G.hearts.theo=5;G.talked={};const h0=G.hearts.theo;talk(n);if(!modal||!modal.name.includes('Heart Event'))throw new Error('no event');modal=null;if(!(G.hearts.theo>h0))throw new Error('event hearts');
+  const f=FM12.HOMES.theo.f.find(f=>f[0]=='starmap');G.px=f[1]*T+8;G.py=1*T+8;G.dir=0;interact();if(!modal||!modal.pages[0].includes('star chart'))throw new Error('read: '+(modal&&modal.pages[0]));modal=null;
+  G.gifted={};const i=G.inv.findIndex(q=>!q);G.inv[i]=['crys',1];G.sel=i;G.talked={};const hb=G.hearts.theo;G.px=npcRT.theo.x+14;G.py=npcRT.theo.y;talk(n);const go=modal&&modal.opts&&modal.opts.find(o=>o.t.startsWith('Give'));if(!go)throw new Error('no give option');modal=null;go.f();modal=null;const gave=!G.inv[i]||G.hearts.theo!=hb;G.inv[i]=null;if(!gave)throw new Error('gift failed');enter('city',16,14,0);return 'ok'}));
+ await t('character sprites: player/NPC/kid 4 dirs x 4 frames + portraits render, outlined, no errors',async()=>ev(()=>{const looks=[PLOOK,...NPCS.map(n=>n.look),{skin:'#e8b48a',hair:'#ff4aa8',style:'bob',top:'#ffd27a',pants:'#5a8ac8'}];let n=0;
+  const c=document.createElement('canvas');c.width=24;c.height=30;const g=c.getContext('2d');for(const L of looks)for(let d=0;d<4;d++)for(let f=0;f<4;f++)for(const o of[{},{suit:1},{swing:1}]){g.clearRect(0,0,24,30);drawChar(g,4,3,L,d,f,o);n++;
+   const a=g.getImageData(0,0,24,30).data;let op=0,ol=0;for(let i=0;i<a.length;i+=4){if(a[i+3]==255)op++;if(a[i]==26&&a[i+1]==15&&a[i+2]==26)ol++}if(op<80||ol<20)throw new Error('sprite '+JSON.stringify(L)+' d'+d+' f'+f+' '+op+'/'+ol)}
+  const s=FM12.charSprite(NPCS[0].look,1,0),s2=FM12.charSprite(NPCS[0].look,1,1);if(s.toDataURL()==s2.toDataURL())throw new Error('walk frames identical');
+  for(const L of looks)for(const m of['','happy','love','angry','sad'])drawPortrait(cx,10,10,L,3,m,false),drawPortrait(cx,10,10,L,2,m,true);return n+' sprites, '+FM12.CC.size+' cached'}));
  await t('screenshots',async()=>{const shot=async(n,f)=>{await ev(f);await new Promise(r=>setTimeout(r,450));await page.screenshot({path:path.join(SHOTS,n)})};
   await shot('fm13_museum.png',()=>{for(const i of FM10.MALL.slice(0,22))G.muse[i]=1;enter('museum',6,5,0);G.time=700;modal=null;if(npcRT.theo){npcRT.theo.zone='museum';npcRT.theo.x=10*T+8;npcRT.theo.y=4*T+8}});
   await shot('fm13_dust.png',()=>{G.wx='dust';DUSTD=-1;SURF=null;enter('surf',33,37,0);G.time=800;modal=null});
@@ -31,5 +52,16 @@ module.exports=async({t,ev,page,path,SHOTS})=>{
   await shot('fm14_tracker.png',()=>{modal=null;G.sq={kai1:0};add('glowcap',2);enter('farm',13,9,2);G.time=1000});
   await shot('fm14_log.png',()=>{G.sq={ava1:'done',kai1:1,mo1:0};FM11.questLog()});
   await shot('fm14_quest.png',()=>{modal=null;G.sq={};const n=NPCS.find(x=>x.id=='kai');G.hearts.kai=5;enter('city',16,14,0);G.time=720;placeNPCs(true);const r=npcRT.kai;if(r.zone=='city'){G.px=r.x+20;G.py=r.y}talk(n)});
-  await ev(()=>{modal=null;enter('farm',13,9,2)});return 'saved'});
+  await shot('fm15_home_zara.png',()=>{modal=null;G.time=22*60+30;G.wx=null;enter('h_zara',5,6,0);placeNPCs(true);G.px=6*T+8;G.py=5*T+8});
+  await shot('fm15_home_mo.png',()=>{modal=null;G.time=21*60;enter('h_mo',5,6,0);placeNPCs(true);G.px=4*T+8;G.py=5*T+8});
+  await shot('fm15_habitat_row.png',()=>{modal=null;G.time=19*60;enter('city',6,20,0)});
+  await shot('fm15_portrait.png',()=>{G.time=21*60;enter('h_theo',5,6,0);placeNPCs(true);G.px=6*T+8;G.py=5*T+8;const n=NPCS.find(q=>q.id=='theo');say(n.n,FM12.HOMES.theo.home[1],null,n.look);modal.ch=999});
+  await ev(()=>{modal=null;const old=document.getElementById('cmp');if(old)old.remove();const looks=[['You',PLOOK],...NPCS.map(n=>[n.n,n.look]),['Child',{skin:'#e8b48a',hair:'#ff4aa8',style:'bob',top:'#ffd27a',pants:'#5a8ac8'}]];
+   const S=4,cw=looks.length*26,ch=140,c=document.createElement('canvas');c.id='cmp';c.width=cw*S;c.height=ch*S;c.style.cssText='position:fixed;left:0;top:0;z-index:99;width:'+cw*S/2+'px;height:'+ch*S/2+'px;image-rendering:pixelated';
+   const o=document.createElement('canvas');o.width=cw;o.height=ch;const g=o.getContext('2d');g.fillStyle='#1a1030';g.fillRect(0,0,cw,ch);g.fillStyle='#2a1a40';g.fillRect(0,70,cw,70);
+   const tx=(s,x,y)=>{g.fillStyle='#ffd27a';g.font='6px monospace';g.fillText(s,x,y)};tx('BEFORE',2,7);tx('AFTER',2,77);
+   looks.forEach(([nm,L],i)=>{const x=i*26+5;FM12.drawCharV1(g,x,10,L,2,0);FM12.drawCharV1(g,x,38,L,1,1);FM12.drawPortraitV1(g,x-1,58,L,0.75);drawChar(g,x,80,L,2,0);drawChar(g,x,108,L,1,1);});
+   const q=c.getContext('2d');q.imageSmoothingEnabled=false;q.drawImage(o,0,0,cw*S,ch*S);document.body.appendChild(c)});
+  await new Promise(r=>setTimeout(r,200));await (await page.$('#cmp')).screenshot({path:path.join(SHOTS,'fm15_before_after.png')});
+  await ev(()=>{document.getElementById('cmp').remove();modal=null;enter('farm',13,9,2)});return 'saved'});
 };

diff --git a/js/ui.js b/js/ui.js
@@ -219,7 +219,7 @@ function hud(){const z=G.zone;panel(3,3,124,OUTZ(z)?47:38,'#0a0612d8','#ffb050')
  const h=Math.floor(G.time/60)%24,mm=G.time%60,ic=G.time<1140?'☀':'☾';txt(`${season()} ${solOfSeason()} · Y${year()}`,7,12,'#ffd27a',8);txt(ic+' '+String(h).padStart(2,'0')+':'+String(mm).padStart(2,'0'),123,12,'#fff',8,'right');
  bar(7,16,G.energy,G.maxEn,'#fc3','EN');bar(7,25,G.hp,100,'#f44','HP');txt(G.money+'cr',123,32,'#7f7',8,'right');
  if(OUTZ(z)){bar(7,34,G.o2,100,G.o2<25&&tick%20<10?'#f00':'#3cf','O2');if(G.o2<25)txt('LOW OXYGEN!',W/2,46,'#f44',9,'center')}
- const zn={farm:'Dome Farm',mine2:0,city:'New Cydonia',surf:'Martian Surface',home:'Your Habitat',cafe:'Red Dust Cafe',shop:'Supply & Tech',cc:'Community Center',valles:'Valles Canyon',clinic:'Cydonia Clinic',biopod:'Bio-Pod',museum:'Cydonia Museum',bar:'The Airlock',port:'Shuttle Port',phobos:'Phobos Station',mine:MINE&&MINE.rift?'Hellas Rift - Depth '+G.rfloor:(G.floor>10?'Frozen Depths - ':'Mine - Floor ')+(G.floor>10?'F'+G.floor:G.floor)}[z];txt(zn,W/2,12,'#fff9',8,'center');
+ const zn={farm:'Dome Farm',mine2:0,city:'New Cydonia',surf:'Martian Surface',home:'Your Habitat',cafe:'Red Dust Cafe',shop:'Supply & Tech',cc:'Community Center',valles:'Valles Canyon',clinic:'Cydonia Clinic',biopod:'Bio-Pod',museum:'Cydonia Museum',...(window.HOMEN||{}),bar:'The Airlock',port:'Shuttle Port',phobos:'Phobos Station',mine:MINE&&MINE.rift?'Hellas Rift - Depth '+G.rfloor:(G.floor>10?'Frozen Depths - ':'Mine - Floor ')+(G.floor>10?'F'+G.floor:G.floor)}[z];txt(zn,W/2,12,'#fff9',8,'center');
  const boss=ENTS.find(e=>e.t=='queen'||e.t=='wyrm'&&e.awake);if(boss){R(W/2-80,18,160,8,'#000');R(W/2-79,19,158*boss.hp/boss.max,6,'#4df');txt(boss.t=='wyrm'?'SAND WYRM':'CRYSTAL QUEEN',W/2,32,'#bff',7,'center')}
  R(W-46,3,43,19,'#ff6aa8');R(W-45,4,41,17,'#1a0a24');txt('MENU',W-24.5,16,'#fff',8,'center');R(W-67,3,19,19,'#ffb050');R(W-66,4,17,17,'#1a0a24');{const c='#fff',a=W-63,b=7,o=isFS()?3:0;R(a+o,b+o,4,1,c);R(a+o,b+o,1,4,c);R(a+11-o,b+o,4,1,c);R(a+14-o,b+o,1,4,c);R(a+o,b+10+o-o*2,1,4,c);R(a+o,b+13-o,4,1,c);R(a+14-o,b+10-o,1,4,c);R(a+11-o,b+13-o,4,1,c)}
  for(let i=0;i<10;i++){const X=HB.x+i*HB.s,Y=HB.y;R(X,Y,HB.s-1,HB.s-1,i==G.sel?'#ffd27a':'#000c');R(X+1,Y+1,HB.s-3,HB.s-3,i==G.sel?'#4a2a3a':'#2a1a2acc');const s=G.inv[i];if(s){drawIcon(cx,s[0],X+2,Y+2);const it=ITEMS[s[0]];if(it.tool&&G.tools[s[0]]>1)R(X+2,Y+2,3,3,['','','#c96','#46f'][G.tools[s[0]]]);if(!it.tool)txt(s[1],X+HB.s-2,Y+HB.s-2,'#fff',7,'right')}}

diff --git a/index.html b/index.html
@@ -5,4 +5,4 @@ canvas{position:absolute;image-rendering:pixelated;image-rendering:crisp-edges}
 #rot{display:none;position:fixed;inset:0;color:#f6a;background:#0b0610;align-items:center;justify-content:center;text-align:center;font-size:20px;z-index:9}
 @media (orientation:portrait){#rot{display:flex}}</style></head>
 <body><canvas id="c"></canvas><div id="rot">↻ Rotate your phone to landscape<br>to play Farm Mars</div>
-<script src="js/data.js?v=14"></script><script src="js/audio.js?v=14"></script><script src="js/maps.js?v=14"></script><script src="js/art.js?v=14"></script><script src="js/game.js?v=14"></script><script src="js/ui.js?v=14"></script><script src="js/v5.js?v=14"></script><script src="js/v6.js?v=14"></script><script src="js/v7.js?v=14"></script><script src="js/v8.js?v=14"></script><script src="js/v9.js?v=14"></script><script src="js/v10.js?v=14"></script><script src="js/v11.js?v=14"></script></body></html>
+<script src="js/data.js?v=15"></script><script src="js/audio.js?v=15"></script><script src="js/maps.js?v=15"></script><script src="js/art.js?v=15"></script><script src="js/game.js?v=15"></script><script src="js/ui.js?v=15"></script><script src="js/v5.js?v=15"></script><script src="js/v6.js?v=15"></script><script src="js/v7.js?v=15"></script><script src="js/v8.js?v=15"></script><script src="js/v9.js?v=15"></script><script src="js/v10.js?v=15"></script><script src="js/v11.js?v=15"></script><script src="js/v12.js?v=15"></script></body></html>

diff --git a/sw.js b/sw.js
@@ -1,4 +1,4 @@
-const V='farmmars-v14',F=['./','index.html','manifest.json','favicon.svg','icon-192.png','icon-512.png',...['data','audio','maps','art','game','ui','v5','v6','v7','v8','v9','v10','v11'].map(n=>'js/'+n+'.js?v=14')];
+const V='farmmars-v15',F=['./','index.html','manifest.json','favicon.svg','icon-192.png','icon-512.png',...['data','audio','maps','art','game','ui','v5','v6','v7','v8','v9','v10','v11','v12'].map(n=>'js/'+n+'.js?v=15')];
 self.addEventListener('install',e=>{e.waitUntil(caches.open(V).then(c=>c.addAll(F)));self.skipWaiting()});
 self.addEventListener('activate',e=>{e.waitUntil(caches.keys().then(k=>Promise.all(k.filter(x=>x!=V).map(x=>caches.delete(x)))));self.clients.claim()});
 self.addEventListener('fetch',e=>{if(e.request.method!='GET')return;e.respondWith(fetch(e.request).then(r=>{const c=r.clone();caches.open(V).then(ca=>ca.put(e.request,c));return r}).catch(()=>caches.match(e.request,{ignoreSearch:false}).then(r=>r||caches.match('index.html'))))});
